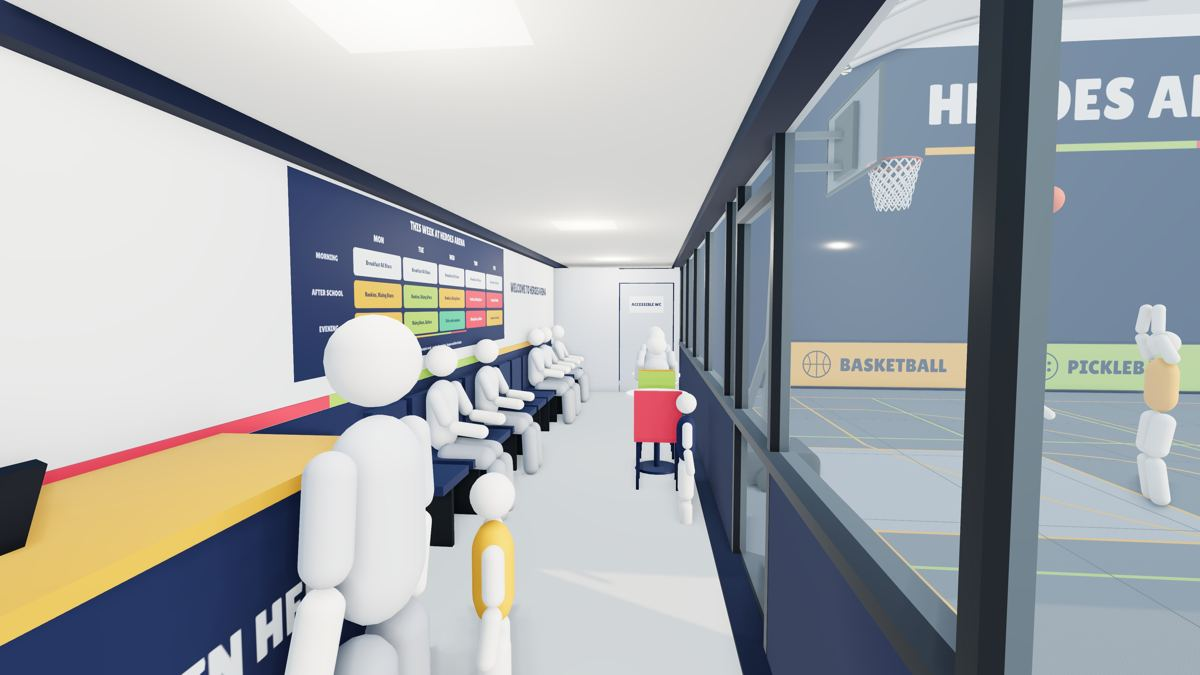
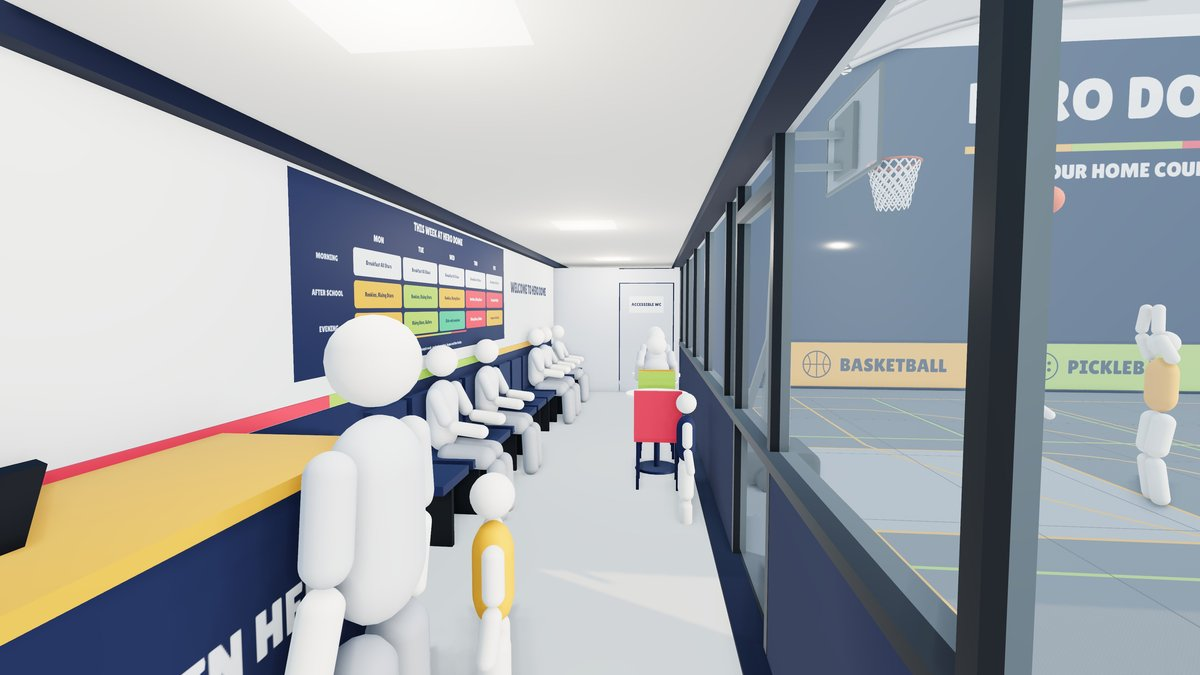
Hero Dome: new concept stills with the Hero Dome name in both decks and the microsite draft
Claude-Session: https://claude.ai/code/session_01UoyugYzmaTfuHsWdpUMhBc

diff --git a/court-viz/business/schools-deck/project/slides/imagine.html b/court-viz/business/schools-deck/project/slides/imagine.html
@@ -1,7 +1,7 @@
 <section id="imagine" data-transition="fade" style="background:#f8fafc;color:#14264e;font-family:'Montserrat', Arial, sans-serif;padding:128px 128px 160px;display:flex;flex-direction:column;gap:48px">
 <h2 style="font-family:'Lilita One', Arial, sans-serif;font-weight:400;font-size:80px;line-height:1.1;text-transform:uppercase;color:#14264e">Imagine your school with this</h2>
 <div style="display:flex;flex-direction:row;gap:56px;align-items:center">
-<img src="/_blob/074a0b8d5aa4e223a4b81ef4645f133b" alt="Concept render inside the Hero Dome: a grey tiled court with gold, green and red lines, children in sport bibs playing 3x3 on one hoop, a big Hero Dome sign with a three-colour bar, and basketball, pickleball and dodgeball boards" style="width:900px;height:506px;object-fit:cover;border:4px solid #14264e;border-radius:24px;box-shadow:4px 4px 0 rgba(0,0,0,0.1)">
+<img src="/_blob/20bffa928f4f4f8fe8866e981cd7243d" alt="Concept render inside the Hero Dome: a grey tiled court with gold, green and red lines, children in sport bibs playing 3x3 on one hoop, a big Hero Dome sign with a three-colour bar, and basketball, pickleball and dodgeball boards" style="width:900px;height:506px;object-fit:cover;border:4px solid #14264e;border-radius:24px;box-shadow:4px 4px 0 rgba(0,0,0,0.1)">
 <div style="flex:1;display:flex;flex-direction:column;gap:26px">
 <div style="display:flex;flex-direction:row;gap:18px;align-items:center"><x-icon name="CheckCircle" style="color:#14264e;width:44px;height:44px"></x-icon><p style="font-size:30px;font-weight:600;line-height:1.3;color:#14264e">PE every day, whatever the weather</p></div>
 <div style="display:flex;flex-direction:row;gap:18px;align-items:center"><x-icon name="CheckCircle" style="color:#14264e;width:44px;height:44px"></x-icon><p style="font-size:30px;font-weight:600;line-height:1.3;color:#14264e">Your hall freed up for everything else</p></div>

diff --git a/court-viz/business/schools-deck/project/slides/sports.html b/court-viz/business/schools-deck/project/slides/sports.html
@@ -2,8 +2,8 @@
 <h2 style="font-family:'Lilita One', Arial, sans-serif;font-weight:400;font-size:80px;line-height:1.1;text-transform:uppercase;color:#14264e">One space, many sports</h2>
 <p style="font-size:32px;line-height:1.4;color:#334155;width:1580px"><b style="color:#14264e">Basketball is our flagship.</b> Roll the hoops away and the same court hosts pickleball and dodgeball, plus dance, fitness and martial arts.</p>
 <div style="display:flex;flex-direction:row;gap:32px">
-<img src="/_blob/66bab4c6c38d9f7c532aef99ca5d1d5e" alt="Concept render of the Hero Dome set up for pickleball, children with paddles either side of a low net" style="width:816px;height:290px;object-fit:cover;border:4px solid #14264e;border-radius:24px">
-<img src="/_blob/a734a920d710b2bc39e686c2085bf71b" alt="Concept render of the Hero Dome set up for dodgeball, two teams of children either side of the halfway line with foam balls" style="width:816px;height:290px;object-fit:cover;border:4px solid #14264e;border-radius:24px">
+<img src="/_blob/616ef2cca09dd5d5fde344edbcf40535" alt="Concept render of the Hero Dome set up for pickleball, children with paddles either side of a low net" style="width:816px;height:290px;object-fit:cover;border:4px solid #14264e;border-radius:24px">
+<img src="/_blob/4d02de7c21c1a0bbb37a0f9c23910323" alt="Concept render of the Hero Dome set up for dodgeball, two teams of children either side of the halfway line with foam balls" style="width:816px;height:290px;object-fit:cover;border:4px solid #14264e;border-radius:24px">
 </div>
 <div style="display:flex;flex-direction:row;gap:24px">
 <div style="flex:1;display:flex;flex-direction:row;gap:18px;align-items:center;background:#14264e;border-radius:24px;box-shadow:4px 4px 0 rgba(0,0,0,0.1);padding:24px 28px">

diff --git a/court-viz/business/schools-deck/project/slides/hub.html b/court-viz/business/schools-deck/project/slides/hub.html
@@ -1,7 +1,7 @@
 <section id="hub" data-transition="fade" style="background:#f8fafc;color:#14264e;font-family:'Montserrat', Arial, sans-serif;padding:128px 128px 160px;display:flex;flex-direction:column;gap:48px">
 <h2 style="font-family:'Lilita One', Arial, sans-serif;font-weight:400;font-size:80px;line-height:1.1;text-transform:uppercase;color:#14264e">What goes on your playground</h2>
 <div style="display:flex;flex-direction:row;gap:56px;align-items:start">
-<img src="/_blob/809a4f1fe7a601163d8964ff6d5c2e40" alt="Concept render of the Hero Dome from outside with its roller door down, showing the arched canopy on navy containers with Hero Dome on the side" style="width:900px;height:506px;object-fit:cover;border:4px solid #14264e;border-radius:24px;box-shadow:4px 4px 0 rgba(0,0,0,0.1)">
+<img src="/_blob/90b0b578f29fbecb26823e0695100bac" alt="Concept render of the Hero Dome from outside with its roller door down, showing the arched canopy on navy containers with Hero Dome on the side" style="width:900px;height:506px;object-fit:cover;border:4px solid #14264e;border-radius:24px;box-shadow:4px 4px 0 rgba(0,0,0,0.1)">
 <div style="flex:1;display:flex;flex-direction:column;gap:20px">
 <p style="font-size:29px;line-height:1.35;color:#334155"><b style="color:#14264e">Footprint:</b> about 22 × 12 m (270 m², 2,900 sq ft), roughly the size of a tennis court</p>
 <p style="font-size:29px;line-height:1.35;color:#334155"><b style="color:#14264e">Covered, enclosed, LED lit</b>, with a 14.8 × 10 m court</p>

diff --git a/court-viz/business/schools-deck/project/slides/cover.html b/court-viz/business/schools-deck/project/slides/cover.html
@@ -1,5 +1,5 @@
 <section id="cover" data-transition="fade" style="background:#14264e;color:#ffffff;font-family:'Montserrat', Arial, sans-serif;padding:128px;display:flex;flex-direction:column;justify-content:center;gap:32px">
-<img src="/_blob/1e15f459b8da1996a9af496a9f6e0e09" alt="Concept render of the Hero Dome: a white arched canopy on navy containers on a school playground, with Hero Dome and Your Home Court over the open roller door" style="position:absolute;left:0;top:0;width:1920px;height:1080px;object-fit:cover">
+<img src="/_blob/16bdcb2c6534adab1da84604493660fa" alt="Concept render of the Hero Dome: a white arched canopy on navy containers on a school playground, with Hero Dome and Your Home Court over the open roller door" style="position:absolute;left:0;top:0;width:1920px;height:1080px;object-fit:cover">
 <div style="position:absolute;left:0;top:0;width:1920px;height:1080px;background:linear-gradient(90deg, rgba(20,38,78,0.95) 0%, rgba(20,38,78,0.86) 42%, rgba(20,38,78,0) 74%)"></div>
 <p style="font-size:24px;font-weight:700;letter-spacing:2px;text-transform:uppercase;background:#fba91a;color:#14264e;padding:12px 28px;border-radius:999px;align-self:flex-start">Founding school invitation</p>
 <h1 style="font-family:'Lilita One', Arial, sans-serif;font-weight:400;font-size:180px;line-height:1;text-transform:uppercase;color:#ffffff;width:980px">Hero Dome</h1>

diff --git a/court-viz/business/finance-pack/project/slides/capacity.html b/court-viz/business/finance-pack/project/slides/capacity.html
@@ -15,7 +15,7 @@
 </div>
 <p style="font-size:30px;line-height:1.4;color:#334155">Full by Year 3 is the signal to open <b style="color:#14264e">Dome #2 in Bicester</b>, already next in line.</p>
 </div>
-<img src="/_blob/9d0c8c452a73e07672c78ab5122f4146" alt="Top-down plan of the Hero Dome: reception, court and storage" style="width:700px;height:520px;object-fit:cover;border:4px solid #14264e;border-radius:24px">
+<img src="/_blob/88b3d5e35d3ee5407047362926144591" alt="Top-down plan of the Hero Dome: reception, court and storage" style="width:700px;height:520px;object-fit:cover;border:4px solid #14264e;border-radius:24px">
 <div style="position:absolute;left:128px;right:128px;bottom:64px;height:56px;display:flex;flex-direction:row;align-items:center;justify-content:space-between">
 <div style="background:#14264e;border-radius:999px;padding:8px 24px;display:flex"><img src="/_blob/84898ed2defa40e3c1c0d148bf14dac6" alt="Hoop Heroes logo" style="width:84px;height:40px;object-fit:contain"></div>
 <p style="font-size:24px;color:#334155">Internal · desk model v0.2 · site profit before central overheads · 7</p>

diff --git a/court-viz/business/finance-pack/project/slides/cover.html b/court-viz/business/finance-pack/project/slides/cover.html
@@ -6,6 +6,6 @@
 <p style="font-size:28px;line-height:1.4;color:#d6dcea">Three years, three cases, and how we pay for it. For the Hoop Heroes team and trusted partners. Not for schools.</p>
 <img src="/_blob/84898ed2defa40e3c1c0d148bf14dac6" alt="Hoop Heroes logo" style="width:220px;height:106px;object-fit:contain">
 </div>
-<img src="/_blob/0d19d05cee4b0b1a029d4a9b0e11797c" alt="Concept render of the Hero Dome on a school playground" style="width:860px;height:560px;object-fit:cover;border:6px solid #fba91a;border-radius:32px">
+<img src="/_blob/4d916bf034de4c94088f7ca513ba8089" alt="Concept render of the Hero Dome on a school playground" style="width:860px;height:560px;object-fit:cover;border:6px solid #fba91a;border-radius:32px">
 <aside>Internal only. Every figure comes from the Hero Dome 3-year model v0.2 (30 Oct 2026), updated with the Zappshelter and Net World Sports quotes, which labels each input as actual, indicative, desk estimate or Jamie's assumption. Site profit is before central overheads.</aside>
 </section>
